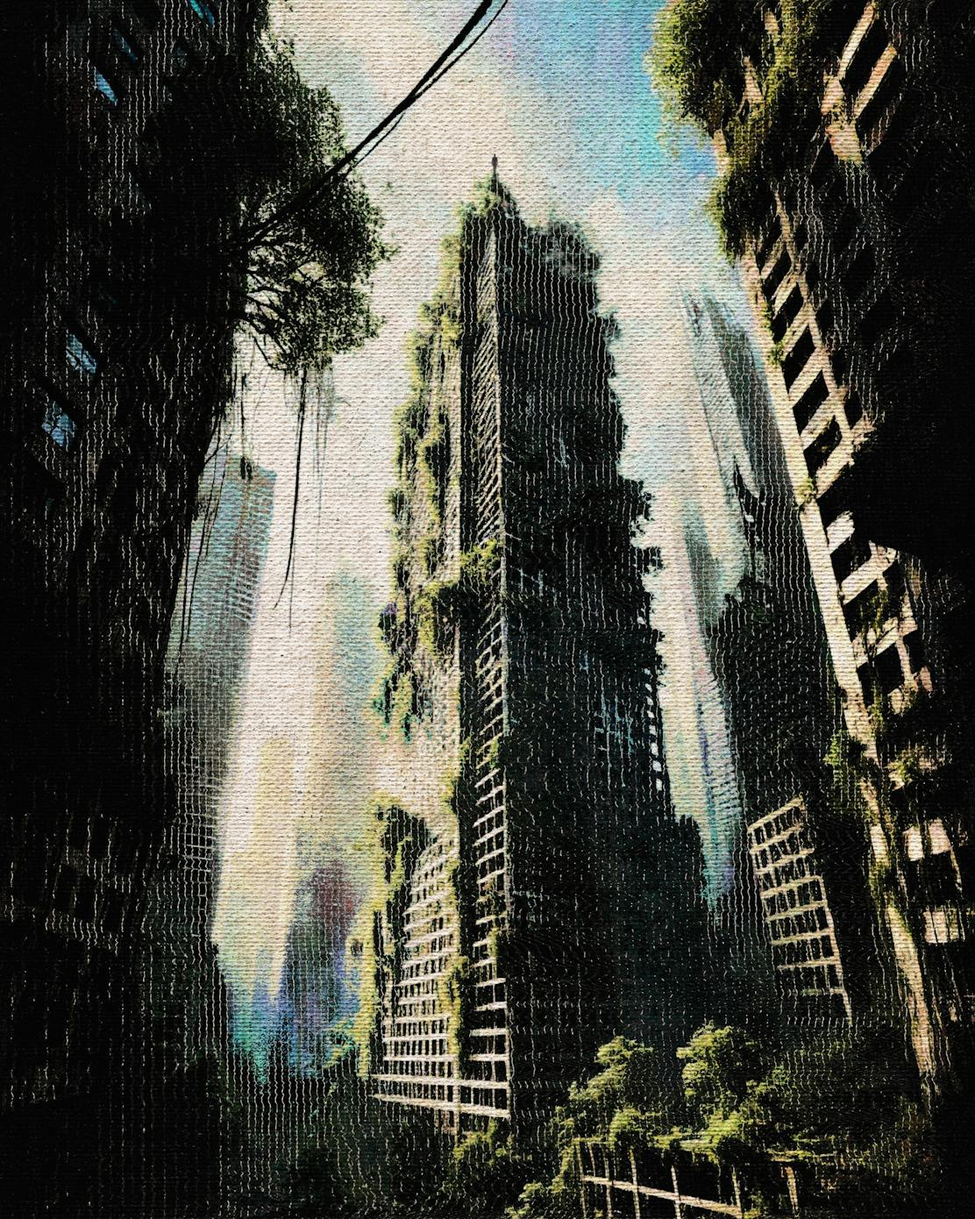
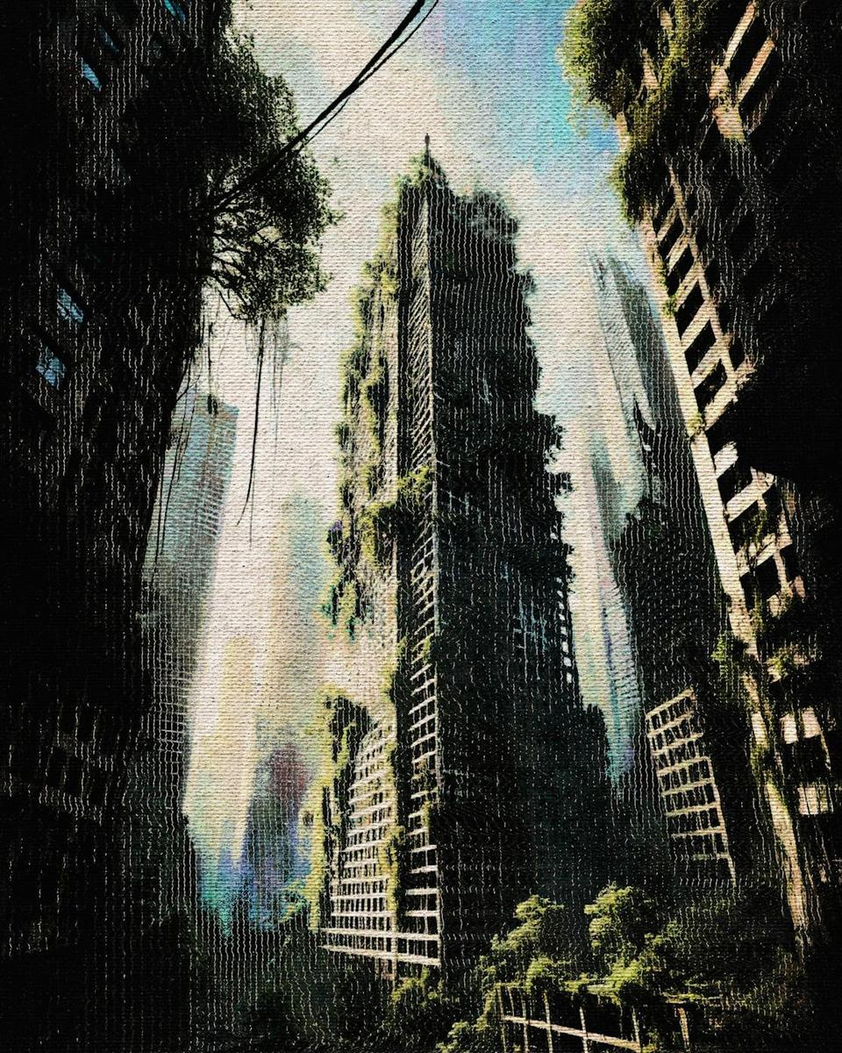
Faster site and sanctum: grid thumbnails, lighter art, high-priority sanctum images

diff --git a/index.html b/index.html
@@ -821,7 +821,7 @@ nav{background:#000;border-bottom:1px solid var(--dim)}
   <div class="wgrid" id="wgrid">
 <div class="wcard" data-s="available" data-p="8nap" style="cursor:pointer" onclick="openStarsGallery()">
       <div class="wimg" style="position:relative">
-        <img src="media/when-all-i-had-was-stars.jpg" alt="When All I Had Was Stars" loading="lazy">
+        <img src="media/thumbs/when-all-i-had-was-stars.jpg" data-full="media/when-all-i-had-was-stars.jpg" alt="When All I Had Was Stars" loading="lazy">
         <span class="wpill available" style="position:absolute;top:.6rem;left:.6rem">minting</span>
         <span class="wplat" style="position:absolute;top:.6rem;right:.6rem;background:#9b8ec418;border:1px solid #9b8ec440;color:#9b8ec4">8NAP</span>
         <div style="position:absolute;bottom:.6rem;right:.6rem;font-family:'Inconsolata',monospace;font-size:.45rem;letter-spacing:.2em;color:rgba(196,135,58,.8);background:rgba(0,0,0,.6);padding:.2rem .5rem">2 editions · 0.042 Ξ</div>
@@ -836,7 +836,7 @@ nav{background:#000;border-bottom:1px solid var(--dim)}
 
 <div class="wcard" data-s="sold">
       <a href="https://superrare.com/artwork/eth/0x67F8De3A7aB9CE266e44A17B0467860634865171/33" target="_blank" style="text-decoration:none"><div class="wimg" style="position:relative">
-        <img src="media/transcendence.jpg" alt="Transcendence" loading="lazy"
+        <img src="media/thumbs/transcendence.jpg" data-full="media/transcendence.jpg" alt="Transcendence" loading="lazy"
              onerror="this.outerHTML='<div class=&quot;wtext-tile&quot;><span>Transcendence</span></div>'">
         <span class="wpill sold" style="position:absolute;top:.6rem;left:.6rem">collected</span>
         <span class="wplat" style="position:absolute;top:.6rem;right:.6rem;background:#7a9fb018;border:1px solid #7a9fb040;color:#7a9fb0">SuperRare</span>
@@ -846,7 +846,7 @@ nav{background:#000;border-bottom:1px solid var(--dim)}
 
 <div class="wcard" data-s="sold">
       <a href="https://superrare.com/artwork/eth/0x67F8De3A7aB9CE266e44A17B0467860634865171/32" target="_blank" style="text-decoration:none"><div class="wimg" style="position:relative">
-        <img src="media/the-night-you-left.jpg" alt="The Night You Left" loading="lazy">
+        <img src="media/thumbs/the-night-you-left.jpg" data-full="media/the-night-you-left.jpg" alt="The Night You Left" loading="lazy">
         <span class="wpill sold" style="position:absolute;top:.6rem;left:.6rem">collected</span>
         <span class="wplat" style="position:absolute;top:.6rem;right:.6rem;background:#7a9fb018;border:1px solid #7a9fb040;color:#7a9fb0">SuperRare</span>
       </div>
@@ -855,7 +855,7 @@ nav{background:#000;border-bottom:1px solid var(--dim)}
 
 <div class="wcard" data-s="sold">
       <a href="https://www.transient.xyz/nfts/ethereum/0xab85a40c404e076747735a83603a2627045177d1/3" target="_blank" style="text-decoration:none"><div class="wimg" style="position:relative">
-        <img src="media/withdrawn.jpg" alt="Withdrawn" loading="lazy">
+        <img src="media/thumbs/withdrawn.jpg" data-full="media/withdrawn.jpg" alt="Withdrawn" loading="lazy">
         <span class="wpill sold" style="position:absolute;top:.6rem;left:.6rem">collected</span>
         <span class="wplat" style="position:absolute;top:.6rem;right:.6rem;background:#7e6aa018;border:1px solid #7e6aa040;color:#7e6aa0">Transient Labs</span>
         <div style="position:absolute;bottom:.6rem;right:.6rem;font-family:'Inconsolata',monospace;font-size:.45rem;letter-spacing:.2em;color:rgba(196,135,58,.8);background:rgba(0,0,0,.6);padding:.2rem .5rem">cold blooded · rome</div>
@@ -865,7 +865,7 @@ nav{background:#000;border-bottom:1px solid var(--dim)}
 
 <div class="wcard" data-s="available">
       <a href="https://www.transient.xyz/nfts/ethereum/0xab85a40c404e076747735a83603a2627045177d1/2" target="_blank" style="text-decoration:none"><div class="wimg" style="position:relative">
-        <img src="media/meridian.jpg" alt="Meridian" loading="lazy">
+        <img src="media/thumbs/meridian.jpg" data-full="media/meridian.jpg" alt="Meridian" loading="lazy">
         <span class="wpill available" style="position:absolute;top:.6rem;left:.6rem">available</span>
         <span class="wplat" style="position:absolute;top:.6rem;right:.6rem;background:#7e6aa018;border:1px solid #7e6aa040;color:#7e6aa0">Transient Labs</span>
         <div style="position:absolute;bottom:.6rem;right:.6rem;font-family:'Inconsolata',monospace;font-size:.45rem;letter-spacing:.2em;color:rgba(196,135,58,.8);background:rgba(0,0,0,.6);padding:.2rem .5rem">cold blooded · rome</div>
@@ -876,7 +876,7 @@ nav{background:#000;border-bottom:1px solid var(--dim)}
 
 <div class="wcard" data-s="available">
       <a href="https://www.transient.xyz/nfts/ethereum/0xab85a40c404e076747735a83603a2627045177d1/1" target="_blank" style="text-decoration:none"><div class="wimg" style="position:relative">
-        <img src="media/endless.jpg" alt="Endless" loading="lazy">
+        <img src="media/thumbs/endless.jpg" data-full="media/endless.jpg" alt="Endless" loading="lazy">
         <span class="wpill available" style="position:absolute;top:.6rem;left:.6rem">available</span>
         <span class="wplat" style="position:absolute;top:.6rem;right:.6rem;background:#7e6aa018;border:1px solid #7e6aa040;color:#7e6aa0">Transient Labs</span>
         <div style="position:absolute;bottom:.6rem;right:.6rem;font-family:'Inconsolata',monospace;font-size:.45rem;letter-spacing:.2em;color:rgba(196,135,58,.8);background:rgba(0,0,0,.6);padding:.2rem .5rem">cold blooded · rome</div>
@@ -887,7 +887,7 @@ nav{background:#000;border-bottom:1px solid var(--dim)}
 
 <div class="wcard" data-s="sold">
       <a href="https://www.transient.xyz/mint/memorycoldblood" target="_blank" style="text-decoration:none"><div class="wimg" style="position:relative">
-        <img src="media/memory.jpg" alt="Memory" loading="lazy">
+        <img src="media/thumbs/memory.jpg" data-full="media/memory.jpg" alt="Memory" loading="lazy">
         <span class="wpill sold" style="position:absolute;top:.6rem;left:.6rem">mint ended</span>
         <span class="wplat" style="position:absolute;top:.6rem;right:.6rem;background:#7e6aa018;border:1px solid #7e6aa040;color:#7e6aa0">Transient Labs</span>
         <div style="position:absolute;bottom:.6rem;right:.6rem;font-family:'Inconsolata',monospace;font-size:.45rem;letter-spacing:.2em;color:rgba(196,135,58,.8);background:rgba(0,0,0,.6);padding:.2rem .5rem">ed. 20</div>
@@ -897,7 +897,7 @@ nav{background:#000;border-bottom:1px solid var(--dim)}
 
 <div class="wcard" data-s="sold">
       <a href="https://www.transient.xyz/mint/beyondcoldblooded" target="_blank" style="text-decoration:none"><div class="wimg" style="position:relative">
-        <img src="media/beyond.jpg" alt="Beyond" loading="lazy">
+        <img src="media/thumbs/beyond.jpg" data-full="media/beyond.jpg" alt="Beyond" loading="lazy">
         <span class="wpill sold" style="position:absolute;top:.6rem;left:.6rem">mint ended</span>
         <span class="wplat" style="position:absolute;top:.6rem;right:.6rem;background:#7e6aa018;border:1px solid #7e6aa040;color:#7e6aa0">Transient Labs</span>
         <div style="position:absolute;bottom:.6rem;right:.6rem;font-family:'Inconsolata',monospace;font-size:.45rem;letter-spacing:.2em;color:rgba(196,135,58,.8);background:rgba(0,0,0,.6);padding:.2rem .5rem">ed. 20</div>
@@ -922,7 +922,7 @@ nav{background:#000;border-bottom:1px solid var(--dim)}
 
 <div class="wcard" data-s="available">
       <a href="https://manifold.xyz/@photon-tide/id/4057272560" target="_blank" style="text-decoration:none"><div class="wimg" style="position:relative">
-        <img src="media/me-and-my-shadow.webp" alt="Me and My Shadow" loading="lazy">
+        <img src="media/thumbs/me-and-my-shadow.webp" data-full="media/me-and-my-shadow.webp" alt="Me and My Shadow" loading="lazy">
         <span class="wpill available" style="position:absolute;top:.6rem;left:.6rem">minting</span>
         <span class="wplat" style="position:absolute;top:.6rem;right:.6rem;background:#5a8a6a18;border:1px solid #5a8a6a40;color:#5a8a6a">Manifold</span>
         <div style="position:absolute;bottom:.6rem;right:.6rem;font-family:'Inconsolata',monospace;font-size:.45rem;letter-spacing:.2em;color:rgba(196,135,58,.8);background:rgba(0,0,0,.6);padding:.2rem .5rem">9 / 15 minted</div>
@@ -933,7 +933,7 @@ nav{background:#000;border-bottom:1px solid var(--dim)}
 
 <div class="wcard" data-s="sold" data-p="transient" style="cursor:pointer" onclick="openCorridorGallery()">
       <div class="wimg" style="position:relative">
-        <img src="media/9afa808716.jpg" alt="Oculus — w/ DeltaSauce" loading="lazy">
+        <img src="media/thumbs/9afa808716.jpg" data-full="media/9afa808716.jpg" alt="Oculus — w/ DeltaSauce" loading="lazy">
         <span class="wpill sold" style="position:absolute;top:.6rem;left:.6rem">sold out</span>
         <span class="wplat" style="position:absolute;top:.6rem;right:.6rem;background:#7e6aa018;border:1px solid #7e6aa040;color:#7e6aa0">Transient Labs</span>
         <div style="position:absolute;bottom:.6rem;right:.6rem;font-family:'Inconsolata',monospace;font-size:.45rem;letter-spacing:.2em;color:rgba(196,135,58,.7);background:rgba(0,0,0,.6);padding:.2rem .5rem">4 drops + 1/1 · w/ DeltaSauce</div>
@@ -947,7 +947,7 @@ nav{background:#000;border-bottom:1px solid var(--dim)}
 
 <div class="wcard" data-s="sold">
       <a href="https://manifold.aotm.gallery/?token=18012" target="_blank" style="text-decoration:none"><div class="wimg" style="position:relative">
-        <img src="media/78c3e4fcf3.jpg" alt="Face Yourself" loading="lazy">
+        <img src="media/thumbs/78c3e4fcf3.jpg" data-full="media/78c3e4fcf3.jpg" alt="Face Yourself" loading="lazy">
         <span class="wpill sold" style="position:absolute;top:.6rem;left:.6rem">collected</span>
         <span class="wplat" style="position:absolute;top:.6rem;right:.6rem;background:#c4873a18;border:1px solid #c4873a40;color:#c4873a">AOTM</span>
       </div>
@@ -1021,7 +1021,7 @@ nav{background:#000;border-bottom:1px solid var(--dim)}
 
 <div class="wcard" data-s="sold">
       <a href="https://manifold.xyz/@photon-tide/id/4081588464" target="_blank" style="text-decoration:none"><div class="wimg" style="position:relative">
-        <img src="media/no-way-back.webp" alt="No Way Back" loading="lazy">
+        <img src="media/thumbs/no-way-back.webp" data-full="media/no-way-back.webp" alt="No Way Back" loading="lazy">
         <span class="wpill sold" style="position:absolute;top:.6rem;left:.6rem">collected</span>
         <span class="wplat" style="position:absolute;top:.6rem;right:.6rem;background:#5a8a6a18;border:1px solid #5a8a6a40;color:#5a8a6a">Manifold</span>
       </div>
@@ -1031,7 +1031,7 @@ nav{background:#000;border-bottom:1px solid var(--dim)}
 
 <div class="wcard" data-s="available">
       <a href="https://manifold.xyz/@photon-tide/id/4081617136" target="_blank" style="text-decoration:none"><div class="wimg" style="position:relative">
-        <img src="media/voidrunner.jpg" alt="Voidrunner" loading="lazy">
+        <img src="media/thumbs/voidrunner.jpg" data-full="media/voidrunner.jpg" alt="Voidrunner" loading="lazy">
         <span class="wpill available" style="position:absolute;top:.6rem;left:.6rem">available</span>
         <span class="wplat" style="position:absolute;top:.6rem;right:.6rem;background:#5a8a6a18;border:1px solid #5a8a6a40;color:#5a8a6a">Manifold</span>
       </div>
@@ -1041,7 +1041,7 @@ nav{background:#000;border-bottom:1px solid var(--dim)}
 
 <div class="wcard" data-s="sold">
       <a href="https://manifold.xyz/@photon-tide/id/4081643760" target="_blank" style="text-decoration:none"><div class="wimg" style="position:relative">
-        <img src="media/singularity.jpg" alt="Singularity" loading="lazy">
+        <img src="media/thumbs/singularity.jpg" data-full="media/singularity.jpg" alt="Singularity" loading="lazy">
         <span class="wpill sold" style="position:absolute;top:.6rem;left:.6rem">collected</span>
         <span class="wplat" style="position:absolute;top:.6rem;right:.6rem;background:#5a8a6a18;border:1px solid #5a8a6a40;color:#5a8a6a">Manifold</span>
       </div>
@@ -1050,7 +1050,7 @@ nav{background:#000;border-bottom:1px solid var(--dim)}
 
 <div class="wcard" data-s="available">
       <a href="https://manifold.xyz/@photon-tide/id/4081645808" target="_blank" style="text-decoration:none"><div class="wimg" style="position:relative">
-        <img src="media/spiraling.jpg" alt="Spiraling" loading="lazy">
+        <img src="media/thumbs/spiraling.jpg" data-full="media/spiraling.jpg" alt="Spiraling" loading="lazy">
         <span class="wpill available" style="position:absolute;top:.6rem;left:.6rem">available</span>
         <span class="wplat" style="position:absolute;top:.6rem;right:.6rem;background:#5a8a6a18;border:1px solid #5a8a6a40;color:#5a8a6a">Manifold</span>
       </div>
@@ -1060,7 +1060,7 @@ nav{background:#000;border-bottom:1px solid var(--dim)}
 
 <div class="wcard" data-s="sold" style="cursor:pointer" onclick="openUnbreakable()">
       <div class="wimg" style="position:relative">
-        <img src="media/unbreakable/01-600.webp" alt="warbrand — u͓n͓b͓r͓e͓a͓k͓a͓b͓l͓e͓ † w/ m0dest" loading="lazy">
+        <img src="media/thumbs/01-600.webp" data-full="media/unbreakable/01-600.webp" alt="warbrand — u͓n͓b͓r͓e͓a͓k͓a͓b͓l͓e͓ † w/ m0dest" loading="lazy">
         <span class="wpill sold" style="position:absolute;top:.6rem;left:.6rem">collected</span>
         <span class="wplat" style="position:absolute;top:.6rem;right:.6rem;background:#7e6aa018;border:1px solid #7e6aa040;color:#7e6aa0">Transient Labs</span>
         <div style="position:absolute;bottom:.6rem;right:.6rem;font-family:'Inconsolata',monospace;font-size:.45rem;letter-spacing:.2em;color:rgba(196,135,58,.8);background:rgba(0,0,0,.6);padding:.2rem .5rem">48 works · w/ m0dest</div>
@@ -1083,7 +1083,7 @@ nav{background:#000;border-bottom:1px solid var(--dim)}
 
 <div class="wcard" data-s="sold">
       <a href="https://manifold.xyz/@photon-tide/id/4218951920" target="_blank" style="text-decoration:none"><div class="wimg" style="position:relative">
-        <img src="media/face-the-monster.webp" alt="Face The Monster" loading="lazy">
+        <img src="media/thumbs/face-the-monster.webp" data-full="media/face-the-monster.webp" alt="Face The Monster" loading="lazy">
         <span class="wpill sold" style="position:absolute;top:.6rem;left:.6rem">collected</span>
         <span class="wplat" style="position:absolute;top:.6rem;right:.6rem;background:#5a8a6a18;border:1px solid #5a8a6a40;color:#5a8a6a">Manifold</span>
       </div>
@@ -1092,7 +1092,7 @@ nav{background:#000;border-bottom:1px solid var(--dim)}
 
 <div class="wcard" data-s="sold">
       <a href="https://manifold.xyz/@photon-tide/id/4219044080" target="_blank" style="text-decoration:none"><div class="wimg" style="position:relative">
-        <img src="media/ignorance-is-bliss.webp" alt="Ignorance Is Bliss" loading="lazy">
+        <img src="media/thumbs/ignorance-is-bliss.webp" data-full="media/ignorance-is-bliss.webp" alt="Ignorance Is Bliss" loading="lazy">
         <span class="wpill sold" style="position:absolute;top:.6rem;left:.6rem">collected</span>
         <span class="wplat" style="position:absolute;top:.6rem;right:.6rem;background:#5a8a6a18;border:1px solid #5a8a6a40;color:#5a8a6a">Manifold</span>
       </div>
@@ -1128,7 +1128,7 @@ nav{background:#000;border-bottom:1px solid var(--dim)}
 
 <div class="wcard" data-s="sold">
       <a href="https://manifold.xyz/@photon-tide/contract/1760000240/2" target="_blank" style="text-decoration:none"><div class="wimg" style="position:relative">
-        <img src="media/27b9f774d5.jpg" alt="Tripping at Bears" loading="lazy">
+        <img src="media/thumbs/27b9f774d5.jpg" data-full="media/27b9f774d5.jpg" alt="Tripping at Bears" loading="lazy">
         <span class="wpill sold" style="position:absolute;top:.6rem;left:.6rem">gifted</span>
         <span class="wplat" style="position:absolute;top:.6rem;right:.6rem;background:#5a8a6a18;border:1px solid #5a8a6a40;color:#7ab88a">Manifold</span>
       </div>
@@ -1137,7 +1137,7 @@ nav{background:#000;border-bottom:1px solid var(--dim)}
 
 <div class="wcard" data-s="available">
       <a href="https://transient.xyz/nfts/ethereum/0xf26d5f421ca6aab35e6bb09a33c9502f12412e31/1" target="_blank" style="text-decoration:none"><div class="wimg" style="position:relative">
-        <img src="media/3dd01498ce.jpg" alt="3AM / Paranoia" loading="lazy">
+        <img src="media/thumbs/3dd01498ce.jpg" data-full="media/3dd01498ce.jpg" alt="3AM / Paranoia" loading="lazy">
         <span class="wpill available" style="position:absolute;top:.6rem;left:.6rem">available</span>
         <span class="wplat" style="position:absolute;top:.6rem;right:.6rem;background:#7e6aa018;border:1px solid #7e6aa040;color:#7e6aa0">Transient Labs</span>
       </div>
@@ -1246,7 +1246,7 @@ nav{background:#000;border-bottom:1px solid var(--dim)}
 
 <div class="wcard" data-s="sold">
       <a href="https://superrare.com/artwork/eth/0xb932a70A57673d89f4acfFBE830E8ed7f75Fb9e0/50372" target="_blank" style="text-decoration:none"><div class="wimg" style="position:relative">
-        <img src="media/56603b56f8.avif" alt="Digital Decay">
+        <img src="media/thumbs/56603b56f8.jpg" data-full="media/56603b56f8.avif" alt="Digital Decay">
         <span class="wpill sold" style="position:absolute;top:.6rem;left:.6rem">collected</span>
         <span class="wplat" style="position:absolute;top:.6rem;right:.6rem;background:#7a9fb018;border:1px solid #7a9fb040;color:#7a9fb0">SuperRare</span>
       </div>
@@ -1282,7 +1282,7 @@ nav{background:#000;border-bottom:1px solid var(--dim)}
 
 <div class="wcard" data-s="available">
       <a href="https://manifold.xyz/@photon-tide/contract/935893232/2" target="_blank" style="text-decoration:none"><div class="wimg" style="position:relative">
-        <img src="media/abandoned.jpg" alt="Abandoned" loading="lazy">
+        <img src="media/thumbs/abandoned.jpg" data-full="media/abandoned.jpg" alt="Abandoned" loading="lazy">
         <span class="wpill available" style="position:absolute;top:.6rem;left:.6rem">opens in 3025</span>
         <span class="wplat" style="position:absolute;top:.6rem;right:.6rem;background:#5a8a6a18;border:1px solid #5a8a6a40;color:#5a8a6a">Manifold</span>
       </div>
@@ -1327,7 +1327,7 @@ nav{background:#000;border-bottom:1px solid var(--dim)}
 
 <div class="wcard" data-s="sold" data-p="transient" style="cursor:pointer" onclick="openCellGallery()">
       <div class="wimg" style="position:relative">
-        <img src="media/7da16a04ab.jpg" alt="The Cell — Collector's Choice" loading="lazy">
+        <img src="media/thumbs/7da16a04ab.jpg" data-full="media/7da16a04ab.jpg" alt="The Cell — Collector's Choice" loading="lazy">
         <span class="wpill sold" style="position:absolute;top:.6rem;left:.6rem">collected</span>
         <span class="wplat" style="position:absolute;top:.6rem;right:.6rem;background:#7e6aa018;border:1px solid #7e6aa040;color:#7e6aa0">Transient Labs</span>
         <div style="position:absolute;bottom:.6rem;right:.6rem;font-family:'Inconsolata',monospace;font-size:.42rem;letter-spacing:.2em;color:rgba(196,135,58,.7);background:rgba(0,0,0,.6);padding:.2rem .5rem">6 works →</div>
@@ -1415,7 +1415,7 @@ nav{background:#000;border-bottom:1px solid var(--dim)}
 
 <div class="wcard" data-s="sold">
       <a href="https://superrare.com/artwork/eth/0xb932a70A57673d89f4acfFBE830E8ed7f75Fb9e0/46333" target="_blank" style="text-decoration:none"><div class="wimg" style="position:relative">
-        <img src="media/the-alchemist.jpg" alt="The Alchemist" loading="lazy">
+        <img src="media/thumbs/the-alchemist.jpg" data-full="media/the-alchemist.jpg" alt="The Alchemist" loading="lazy">
         <span class="wpill sold" style="position:absolute;top:.6rem;left:.6rem">collected</span>
         <span class="wplat" style="position:absolute;top:.6rem;right:.6rem;background:#7a9fb018;border:1px solid #7a9fb040;color:#7a9fb0">SuperRare</span>
       </div>
@@ -1658,7 +1658,7 @@ nav{background:#000;border-bottom:1px solid var(--dim)}
 
 <div class="wcard" data-s="sold">
       <a href="https://networked.art/photontide/0xaf729a08812df6bcd73030a6f4f8f938fc213066/2" target="_blank" style="text-decoration:none"><div class="wimg" style="position:relative">
-        <img src="media/e3ead3f0ea.jpg" alt="Dante&#39;s Inferno" loading="lazy">
+        <img src="media/thumbs/e3ead3f0ea.jpg" data-full="media/e3ead3f0ea.jpg" alt="Dante&#39;s Inferno" loading="lazy">
         <span class="wpill sold" style="position:absolute;top:.6rem;left:.6rem">collected</span>
         <span class="wplat" style="position:absolute;top:.6rem;right:.6rem;background:#c4873a18;border:1px solid #c4873a40;color:#c4873a">Symbols &amp; Omens</span>
       </div>
@@ -1667,7 +1667,7 @@ nav{background:#000;border-bottom:1px solid var(--dim)}
 
 <div class="wcard" data-s="sold">
       <a href="https://networked.art/photontide/0x490aa43b7ffb4f457237d369fff492f962ecdf1d/6" target="_blank" style="text-decoration:none"><div class="wimg" style="position:relative">
-        <img src="media/3765b27448.jpg" alt="a visit to the beach, on psychedelics" loading="lazy">
+        <img src="media/thumbs/3765b27448.jpg" data-full="media/3765b27448.jpg" alt="a visit to the beach, on psychedelics" loading="lazy">
         <span class="wpill sold" style="position:absolute;top:.6rem;left:.6rem">collected</span>
         <span class="wplat" style="position:absolute;top:.6rem;right:.6rem;background:#7a6a4a18;border:1px solid #7a6a4a40;color:#b8a070">Foundation</span>
       </div>
@@ -1676,7 +1676,7 @@ nav{background:#000;border-bottom:1px solid var(--dim)}
 
 <div class="wcard" data-s="sold">
       <a href="https://networked.art/photontide/0x490aa43b7ffb4f457237d369fff492f962ecdf1d/5" target="_blank" style="text-decoration:none"><div class="wimg" style="position:relative">
-        <img src="media/42df6497e5.jpg" alt="Running from myself" loading="lazy">
+        <img src="media/thumbs/42df6497e5.jpg" data-full="media/42df6497e5.jpg" alt="Running from myself" loading="lazy">
         <span class="wpill sold" style="position:absolute;top:.6rem;left:.6rem">collected</span>
         <span class="wplat" style="position:absolute;top:.6rem;right:.6rem;background:#7a6a4a18;border:1px solid #7a6a4a40;color:#b8a070">Foundation</span>
       </div>
@@ -1685,7 +1685,7 @@ nav{background:#000;border-bottom:1px solid var(--dim)}
 
 <div class="wcard" data-s="sold">
       <a href="https://networked.art/photontide/0x490aa43b7ffb4f457237d369fff492f962ecdf1d/3" target="_blank" style="text-decoration:none"><div class="wimg" style="position:relative">
-        <img src="media/d3d890aff8.jpg" alt="Radiance" loading="lazy">
+        <img src="media/thumbs/d3d890aff8.jpg" data-full="media/d3d890aff8.jpg" alt="Radiance" loading="lazy">
         <span class="wpill sold" style="position:absolute;top:.6rem;left:.6rem">collected</span>
         <span class="wplat" style="position:absolute;top:.6rem;right:.6rem;background:#7a6a4a18;border:1px solid #7a6a4a40;color:#b8a070">Foundation</span>
       </div>
@@ -1694,7 +1694,7 @@ nav{background:#000;border-bottom:1px solid var(--dim)}
 
 <div class="wcard" data-s="sold">
       <a href="https://networked.art/photontide/0xf5803ec48a495547ef2cbe5861fa0d7c64a22bab/1" target="_blank" style="text-decoration:none"><div class="wimg" style="position:relative">
-        <img src="media/4867521b32.webp" alt="mind control" loading="lazy">
+        <img src="media/thumbs/4867521b32.jpg" data-full="media/4867521b32.webp" alt="mind control" loading="lazy">
         <span class="wpill sold" style="position:absolute;top:.6rem;left:.6rem">collected</span>
         <span class="wplat" style="position:absolute;top:.6rem;right:.6rem;background:#7a6a4a18;border:1px solid #7a6a4a40;color:#b8a070">Foundation</span>
       </div>
@@ -1703,7 +1703,7 @@ nav{background:#000;border-bottom:1px solid var(--dim)}
 
 <div class="wcard" data-s="sold">
       <a href="https://networked.art/photontide/0x490aa43b7ffb4f457237d369fff492f962ecdf1d/1" target="_blank" style="text-decoration:none"><div class="wimg" style="position:relative">
-        <img src="media/499c67f704.jpg" alt="chamber of reflection" loading="lazy">
+        <img src="media/thumbs/499c67f704.jpg" data-full="media/499c67f704.jpg" alt="chamber of reflection" loading="lazy">
         <span class="wpill sold" style="position:absolute;top:.6rem;left:.6rem">collected</span>
         <span class="wplat" style="position:absolute;top:.6rem;right:.6rem;background:#7a6a4a18;border:1px solid #7a6a4a40;color:#b8a070">Foundation</span>
       </div>
@@ -1748,7 +1748,7 @@ nav{background:#000;border-bottom:1px solid var(--dim)}
 
 <div class="wcard" data-s="sold">
       <a href="https://manifold.xyz/@photon-tide/id/291002608" target="_blank" style="text-decoration:none"><div class="wimg" style="position:relative">
-        <img src="media/a4cfbe0051.jpg" alt="Portrait of Tjo and Sisi" loading="lazy">
+        <img src="media/thumbs/a4cfbe0051.jpg" data-full="media/a4cfbe0051.jpg" alt="Portrait of Tjo and Sisi" loading="lazy">
         <span class="wpill sold" style="position:absolute;top:.6rem;left:.6rem">gifted</span>
         <span class="wplat" style="position:absolute;top:.6rem;right:.6rem;background:#7a6a4a18;border:1px solid #7a6a4a40;color:#b8a070">Foundation</span>
       </div>
@@ -1757,7 +1757,7 @@ nav{background:#000;border-bottom:1px solid var(--dim)}
 
 <div class="wcard" data-s="sold">
       <a href="https://networked.art/photontide/0x3b3ee1931dc30c1957379fac9aba94d1c48a5405/122901" target="_blank" style="text-decoration:none"><div class="wimg" style="position:relative">
-        <img src="media/d8b26ba988.jpg" alt="no one can walk this road but you" loading="lazy">
+        <img src="media/thumbs/d8b26ba988.jpg" data-full="media/d8b26ba988.jpg" alt="no one can walk this road but you" loading="lazy">
         <span class="wpill sold" style="position:absolute;top:.6rem;left:.6rem">collected</span>
         <span class="wplat" style="position:absolute;top:.6rem;right:.6rem;background:#7a6a4a18;border:1px solid #7a6a4a40;color:#b8a070">Foundation</span>
       </div>
@@ -1766,7 +1766,7 @@ nav{background:#000;border-bottom:1px solid var(--dim)}
 
 <div class="wcard" data-s="sold">
       <a href="https://networked.art/photontide/0x3b3ee1931dc30c1957379fac9aba94d1c48a5405/124585" target="_blank" style="text-decoration:none"><div class="wimg" style="position:relative">
-        <img src="media/d1e64a4464.jpg" alt="i thought about jumping again" loading="lazy">
+        <img src="media/thumbs/d1e64a4464.jpg" data-full="media/d1e64a4464.jpg" alt="i thought about jumping again" loading="lazy">
         <span class="wpill sold" style="position:absolute;top:.6rem;left:.6rem">collected</span>
         <span class="wplat" style="position:absolute;top:.6rem;right:.6rem;background:#7a6a4a18;border:1px solid #7a6a4a40;color:#b8a070">Foundation</span>
       </div>
@@ -1775,7 +1775,7 @@ nav{background:#000;border-bottom:1px solid var(--dim)}
 
 <div class="wcard" data-s="sold">
       <a href="https://networked.art/photontide/0x3b3ee1931dc30c1957379fac9aba94d1c48a5405/116003" target="_blank" style="text-decoration:none"><div class="wimg" style="position:relative">
-        <img src="media/bae77ee73b.jpg" alt="Alucinación" loading="lazy">
+        <img src="media/thumbs/bae77ee73b.jpg" data-full="media/bae77ee73b.jpg" alt="Alucinación" loading="lazy">
         <span class="wpill sold" style="position:absolute;top:.6rem;left:.6rem">collected</span>
         <span class="wplat" style="position:absolute;top:.6rem;right:.6rem;background:#7a6a4a18;border:1px solid #7a6a4a40;color:#b8a070">Foundation</span>
       </div>
@@ -1784,7 +1784,7 @@ nav{background:#000;border-bottom:1px solid var(--dim)}
 
 <div class="wcard" data-s="sold">
       <a href="https://networked.art/photontide/0x3b3ee1931dc30c1957379fac9aba94d1c48a5405/115442" target="_blank" style="text-decoration:none"><div class="wimg" style="position:relative">
-        <img src="media/f48136eb98.jpg" alt="chaos theory" loading="lazy">
+        <img src="media/thumbs/f48136eb98.jpg" data-full="media/f48136eb98.jpg" alt="chaos theory" loading="lazy">
         <span class="wpill sold" style="position:absolute;top:.6rem;left:.6rem">collected</span>
         <span class="wplat" style="position:absolute;top:.6rem;right:.6rem;background:#7a6a4a18;border:1px solid #7a6a4a40;color:#b8a070">Foundation</span>
       </div>
@@ -1793,7 +1793,7 @@ nav{background:#000;border-bottom:1px solid var(--dim)}
 
 <div class="wcard" data-s="sold">
       <a href="https://networked.art/photontide/0x3b3ee1931dc30c1957379fac9aba94d1c48a5405/106429" target="_blank" style="text-decoration:none"><div class="wimg" style="position:relative">
-        <img src="media/a2a7069e3e.jpg" alt="seconds after death, i left my body" loading="lazy">
+        <img src="media/thumbs/a2a7069e3e.jpg" data-full="media/a2a7069e3e.jpg" alt="seconds after death, i left my body" loading="lazy">
         <span class="wpill sold" style="position:absolute;top:.6rem;left:.6rem">collected</span>
         <span class="wplat" style="position:absolute;top:.6rem;right:.6rem;background:#7a6a4a18;border:1px solid #7a6a4a40;color:#b8a070">Foundation</span>
       </div>
@@ -1802,7 +1802,7 @@ nav{background:#000;border-bottom:1px solid var(--dim)}
 
 <div class="wcard" data-s="sold">
       <a href="https://networked.art/photontide/0x3b3ee1931dc30c1957379fac9aba94d1c48a5405/115244" target="_blank" style="text-decoration:none"><div class="wimg" style="position:relative">
-        <img src="media/9d719f20ec.jpg" alt="this feeling has been eating me alive" loading="lazy">
+        <img src="media/thumbs/9d719f20ec.jpg" data-full="media/9d719f20ec.jpg" alt="this feeling has been eating me alive" loading="lazy">
         <span class="wpill sold" style="position:absolute;top:.6rem;left:.6rem">collected</span>
         <span class="wplat" style="position:absolute;top:.6rem;right:.6rem;background:#7a6a4a18;border:1px solid #7a6a4a40;color:#b8a070">Foundation</span>
       </div>
@@ -1811,7 +1811,7 @@ nav{background:#000;border-bottom:1px solid var(--dim)}
 
 <div class="wcard" data-s="sold">
       <a href="https://networked.art/photontide/0x3b3ee1931dc30c1957379fac9aba94d1c48a5405/103011" target="_blank" style="text-decoration:none"><div class="wimg" style="position:relative">
-        <img src="media/f4d1813ab9.jpg" alt="the illusion of control" loading="lazy">
+        <img src="media/thumbs/f4d1813ab9.jpg" data-full="media/f4d1813ab9.jpg" alt="the illusion of control" loading="lazy">
         <span class="wpill sold" style="position:absolute;top:.6rem;left:.6rem">collected</span>
         <span class="wplat" style="position:absolute;top:.6rem;right:.6rem;background:#7a6a4a18;border:1px solid #7a6a4a40;color:#b8a070">Foundation</span>
       </div>
@@ -1820,7 +1820,7 @@ nav{background:#000;border-bottom:1px solid var(--dim)}
 
 <div class="wcard" data-s="sold">
       <a href="https://networked.art/photontide/0x3b3ee1931dc30c1957379fac9aba94d1c48a5405/105538" target="_blank" style="text-decoration:none"><div class="wimg" style="position:relative">
-        <img src="media/965c4359e3.jpg" alt="i left my body last night" loading="lazy">
+        <img src="media/thumbs/965c4359e3.jpg" data-full="media/965c4359e3.jpg" alt="i left my body last night" loading="lazy">
         <span class="wpill sold" style="position:absolute;top:.6rem;left:.6rem">collected</span>
         <span class="wplat" style="position:absolute;top:.6rem;right:.6rem;background:#7a6a4a18;border:1px solid #7a6a4a40;color:#b8a070">Foundation</span>
       </div>
@@ -2950,7 +2950,7 @@ document.querySelectorAll('.reveal').forEach(el=>ro.observe(el));
         if (vVideo) { vVideo.style.display = 'none'; vVideo.src = ''; }
         // works without an image yet just show their title text
         vImg.style.display = img ? 'block' : 'none';
-        vImg.src = img ? img.src : '';
+        vImg.src = img ? (img.dataset.full || img.src) : '';
         vImg.alt = title ? title.textContent : '';
         vImg.style.opacity = '1';
         vImg.style.transform = 'scale(1)';
@@ -3942,7 +3942,7 @@ document.addEventListener('DOMContentLoaded', function(){   // the gallery marku
   function collect(){
     return [...document.querySelectorAll('#wgrid .wcard')].map(c => {
       const img = c.querySelector('.wimg img'), vid = c.querySelector('.wimg video');
-      const src = vid ? (vid.dataset.src || vid.currentSrc || vid.src) : (img && (img.currentSrc || img.getAttribute('src')));
+      const src = vid ? (vid.dataset.src || vid.currentSrc || vid.src) : (img && (img.dataset.full || img.currentSrc || img.getAttribute('src')));
       if (!src) return null;
       const a = c.querySelector('a[data-url]') || c.querySelector('a[href]:not(.wcollect)') || c.querySelector('a.wcollect');
       return {
@@ -3966,6 +3966,7 @@ document.addEventListener('DOMContentLoaded', function(){   // the gallery marku
     const art = document.createElement(w.video ? 'video' : 'img');
     if (w.video) { art.muted = true; art.loop = true; art.playsInline = true; art.autoplay = true; if (w.poster) art.poster = w.poster; }
     art.alt = w.title;
+    try { art.fetchPriority = 'high'; } catch (e) {}
     const el = document.createElement('div');
     el.className = 'gild';
     el.prepend(art);
@@ -4120,7 +4121,7 @@ document.addEventListener('DOMContentLoaded', function(){   // the gallery marku
     let start = 0;
     if (slug) { const k = works.findIndex(w => w.slug === slug); if (k >= 0) start = k; }
     room.classList.remove('entering', 'entered', 'still');
-    [0, 1, -1].forEach(d => { const x = works[(start + d + works.length) % works.length]; if (x && !x.video) { const im = new Image(); im.decoding = 'async'; im.src = x.src; } });
+    [0, 1, -1].forEach(d => { const x = works[(start + d + works.length) % works.length]; if (x && !x.video) { const im = new Image(); try { im.fetchPriority = 'high'; } catch (e) {} im.decoding = 'async'; im.src = x.src; } });
     room.querySelectorAll('.sc-keeper').forEach(k => k.classList.remove('placed'));
     room.classList.add('open'); room.setAttribute('aria-hidden', 'false');
     document.documentElement.style.overflow = 'hidden';
